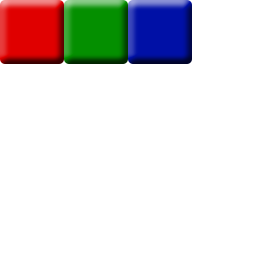
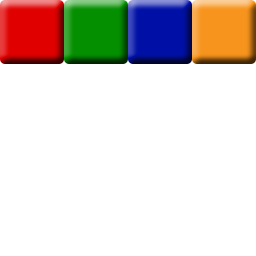
Added orange block

Changed region(s): [[0.75, 0.0, 1.0, 0.25]]

diff --git a/src/blocks/resource/ResourceManager.java b/src/blocks/resource/ResourceManager.java
@@ -52,6 +52,7 @@ public class ResourceManager
 	public ITextureRegion m_BlueBlockRegion;
 	public ITextureRegion m_GreenBlockRegion;
 	public ITextureRegion m_RedBlockRegion;
+	public ITextureRegion m_OrangeBlockRegion;
 	//----------------------------------------
 	
 	private Font m_TitleFont;
@@ -129,6 +130,7 @@ public class ResourceManager
 		m_RedBlockRegion = TextureRegionFactory.extractFromTexture(m_BlockTexture, 0, 0, 64, 64);
 		m_GreenBlockRegion = TextureRegionFactory.extractFromTexture(m_BlockTexture, 64, 0, 64, 64);
 		m_BlueBlockRegion = TextureRegionFactory.extractFromTexture(m_BlockTexture, 128, 0, 64, 64);
+		m_OrangeBlockRegion = TextureRegionFactory.extractFromTexture(m_BlockTexture, 192, 0, 64, 64);
 		
 		m_BlockTexture.load();
 		

diff --git a/src/blocks/resource/BlockFactory.java b/src/blocks/resource/BlockFactory.java
@@ -25,6 +25,10 @@ public class BlockFactory
 			case Blue:
 				newBlock = new Block(type, ResourceManager.m_sInstance.m_BlueBlockRegion);
 			break;
+			
+			case Orange:
+				newBlock = new Block(type, ResourceManager.m_sInstance.m_OrangeBlockRegion);
+			break;
 		}
 		
 		newBlock.setIgnoreUpdate(true);
@@ -50,6 +54,10 @@ public class BlockFactory
 			
 			case 2:
 				newBlock = GetBlock(BlockType.Blue);
+			break;
+			
+			case 3:
+				newBlock = GetBlock(BlockType.Orange);
 			break;
 				
 			default:

diff --git a/src/blocks/game/Block.java b/src/blocks/game/Block.java
@@ -16,7 +16,8 @@ public class Block extends Sprite
 	{
 		Blue,
 		Green,
-		Red
+		Red,
+		Orange
 	}
 	
 	public boolean m_IsPlaced;
